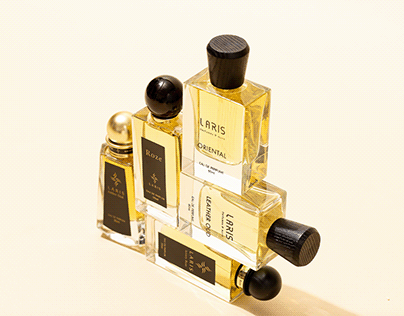
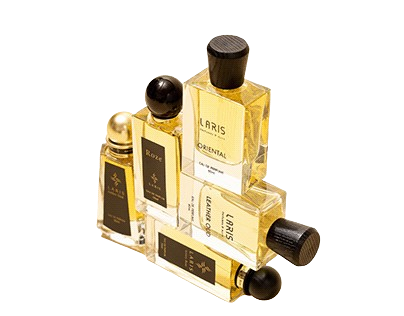
box-shadow

diff --git a/achraf.css b/achraf.css
@@ -145,18 +145,19 @@ span {
 }
 .product1 {
   display: inline-block;
-  border-color: black;
-  border-style: solid;
+  filter: drop-shadow(1px 1px 5px rgb(34, 33, 33));
+  background-color: whitesmoke;
+  border-radius: 7px;
+  
 }
 .product-image-list {
   width: 200px; 
   display: inline-block;
   cursor: pointer;
+
   
 }
-.description {
-  
-}
+
 .price {
   display: grid;
   grid-template-columns: 4fr 1fr;
@@ -178,21 +179,17 @@ span {
 .all-product {
   text-align: center;
   display: grid;
-  grid-template-columns: 1fr 1fr 1fr 1fr;
+  grid-template-columns: 1fr 1fr 1fr 1fr 1fr;
   column-gap: 15px;
   row-gap: 30px;
   margin-left: 15px;
   margin-right: 15px;
 }
-@media (min-width: 1500px) {
-  .all-product {
-    grid-template-columns: 1fr 1fr 1fr 1fr 1fr;
-  }
-}
 
-@media (max-width: 1000px) {
+
+@media (max-width: 700px) {
   .all-product {
-    grid-template-columns: 1fr 1fr 1fr;
+    grid-template-columns: 1fr 1fr ;
   }
 }
 @media (min-width: 1499px) and (max-width: 999px) {
